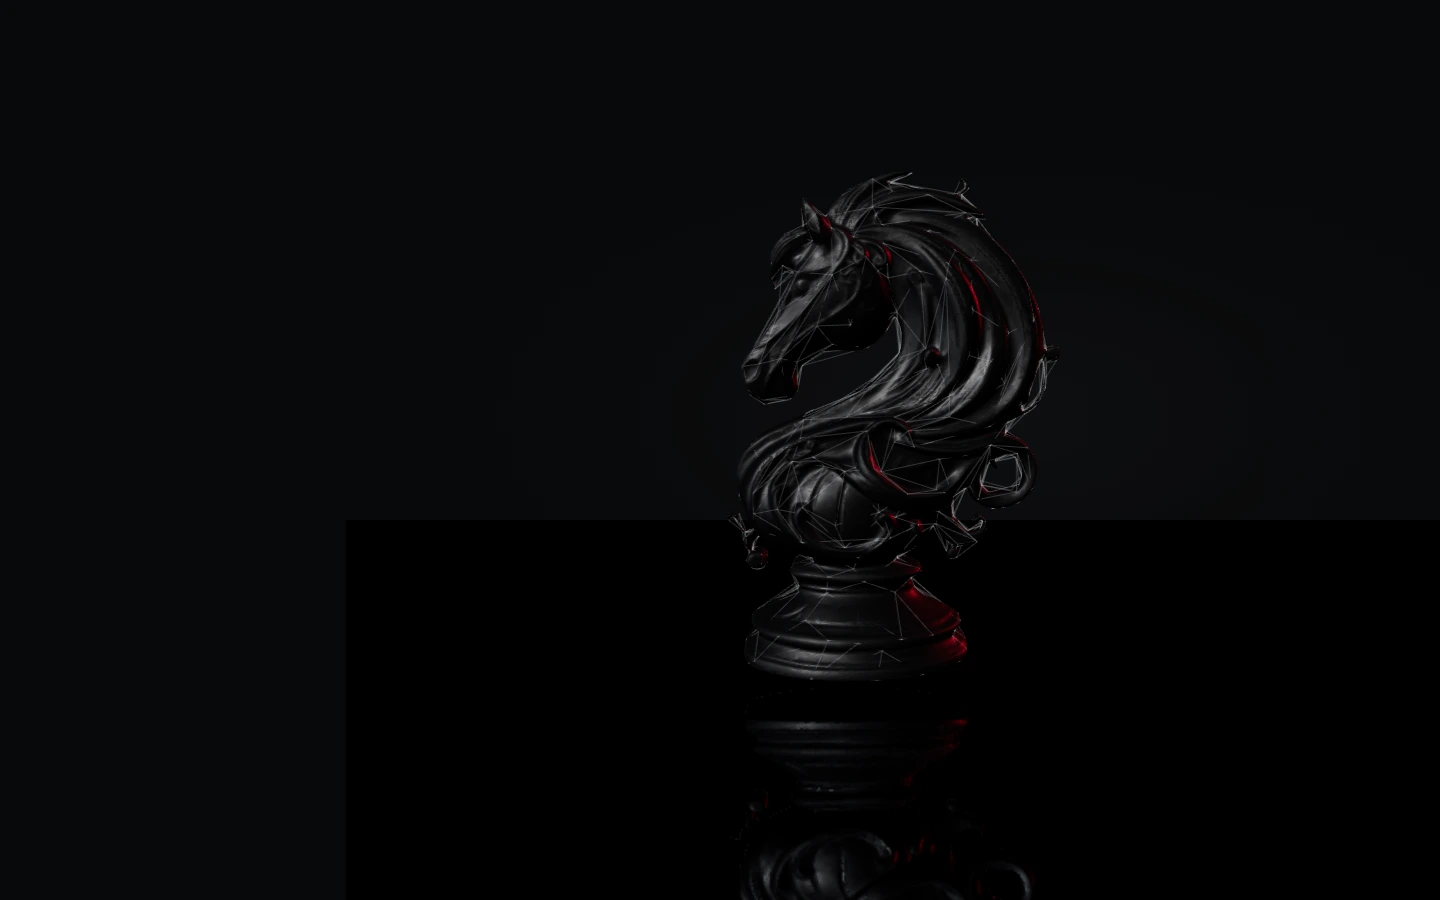
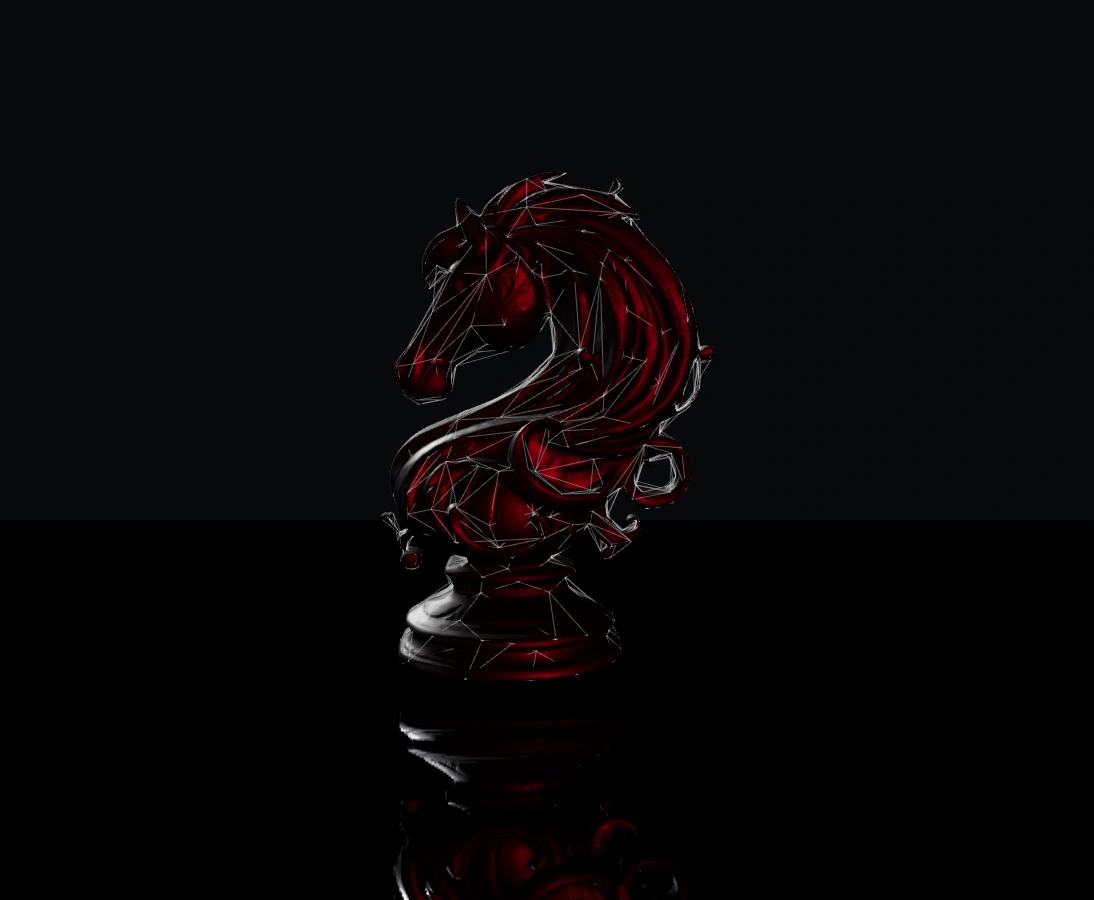
fix: clarify hero knight tracking and lighting

diff --git a/assets/home-hero-scene.js b/assets/home-hero-scene.js
@@ -51,10 +51,10 @@ let progress = 0;
 let lastFrameAt = 0;
 
 const REST_YAW = 0;
-// The model faces the camera at 90 degrees; the offset range keeps both tracked poses forward-facing.
+// Pointer tracking centers on the frontal pose and stays within the forward-facing arc.
 const TRACKING_CENTER_YAW = THREE.MathUtils.degToRad(90);
-const TRACKING_YAW_RANGE = THREE.MathUtils.degToRad(18);
-const TRACKING_PITCH_LIMIT = THREE.MathUtils.degToRad(7);
+const TRACKING_YAW_RANGE = THREE.MathUtils.degToRad(35);
+const TRACKING_PITCH_LIMIT = THREE.MathUtils.degToRad(12);
 const TRACKING_FULL_TILT_AT = 0.75;
 const TRACKING_HEAD_BAND = [0.58, 0.88];
 const LOW_POLY_WIRE_VERTEX_BUDGET = 1100;
@@ -100,7 +100,7 @@ function createRevealMaterial() {
     uniforms: {
       uPointer: { value: new THREE.Vector3() },
       uReveal: { value: 0 },
-      uBaseOpacity: { value: 0.22 },
+      uBaseOpacity: { value: 0.38 },
     },
     vertexShader: `
       varying vec3 vWorldPosition;
@@ -123,7 +123,7 @@ function createRevealMaterial() {
         float localizedReveal = falloff * uReveal;
         float alpha = uBaseOpacity + localizedReveal * (0.88 - uBaseOpacity);
         if (alpha < 0.025) discard;
-        vec3 color = mix(vec3(0.52, 0.55, 0.60), vec3(0.9, 0.18, 0.25), localizedReveal);
+        vec3 color = mix(vec3(0.70, 0.73, 0.78), vec3(0.95, 0.12, 0.20), localizedReveal);
         gl_FragColor = vec4(color, alpha);
         #include <tonemapping_fragment>
         #include <colorspace_fragment>
@@ -380,14 +380,15 @@ async function startScene() {
     // The studio rig stays in scene space; pointer input rotates only modelPivot.
     addStudioLight(new THREE.HemisphereLight(0xe7e8eb, 0x101114, 0.86));
     const key = new THREE.DirectionalLight(0xffffff, 2.7);
+    // Fixed behind-left; light travels across the knight toward the right/front.
     key.position.set(-2.8, 3.4, -3.8);
     addStudioLight(key);
     const fill = new THREE.DirectionalLight(0xbec2cd, 0.46);
     fill.position.set(-3.8, 0.7, 1.5);
     addStudioLight(fill);
-    const rim = new THREE.DirectionalLight(0xe02c3b, 3.1);
-    // Fixed on the scene's right/back side; never parent this light to the model.
-    rim.position.set(3.8, 1.5, -2.4);
+    const rim = new THREE.DirectionalLight(0xf02a3a, 3.1);
+    // Fixed on the reader's right/front; light travels toward the left/back, never with the model.
+    rim.position.set(6.2, 1.7, 3.2);
     addStudioLight(rim);
     scene.add(modelPivot);
 

diff --git a/en/index.html b/en/index.html
@@ -47,12 +47,12 @@
     <main id="main-content" tabindex="-1">
       <section class="hero-track" id="hero-track" aria-labelledby="hero-title" data-stage="0">
         <div class="hero-screen">
-          <picture class="hero-poster" id="hero-poster" aria-hidden="true">
-            <source type="image/webp" media="(max-width: 640px)" srcset="/assets/models/chess-knight-006-poster-mobile.webp" />
-            <source type="image/webp" srcset="/assets/models/chess-knight-006-poster-desktop.webp" />
-            <img id="hero-poster-image" src="/assets/models/chess-knight-006-preview.png" alt="" fetchpriority="high" decoding="async" width="1440" height="900" />
-          </picture>
           <div class="hero-art" id="scene-frame" data-scene-state="poster" data-model-ready="false" role="img" aria-label="Chess Knight 006 by Vijay Saini with white and red lighting and a reflection; decorative scene.">
+            <picture class="hero-poster" id="hero-poster" aria-hidden="true">
+              <source type="image/webp" media="(max-width: 640px)" srcset="/assets/models/chess-knight-006-poster-mobile.webp" />
+              <source type="image/webp" srcset="/assets/models/chess-knight-006-poster-desktop.webp" />
+              <img id="hero-poster-image" src="/assets/models/chess-knight-006-preview.png" alt="" fetchpriority="high" decoding="async" width="1094" height="900" />
+            </picture>
             <img class="scene-fallback" id="scene-fallback" alt="" hidden />
             <canvas id="scene-canvas" hidden aria-hidden="true"></canvas>
             <div class="scene-grid" aria-hidden="true"></div>

diff --git a/pt-br/index.html b/pt-br/index.html
@@ -47,12 +47,12 @@
     <main id="main-content" tabindex="-1">
       <section class="hero-track" id="hero-track" aria-labelledby="hero-title" data-stage="0">
         <div class="hero-screen">
-          <picture class="hero-poster" id="hero-poster" aria-hidden="true">
-            <source type="image/webp" media="(max-width: 640px)" srcset="/assets/models/chess-knight-006-poster-mobile.webp" />
-            <source type="image/webp" srcset="/assets/models/chess-knight-006-poster-desktop.webp" />
-            <img id="hero-poster-image" src="/assets/models/chess-knight-006-preview.png" alt="" fetchpriority="high" decoding="async" width="1440" height="900" />
-          </picture>
           <div class="hero-art" id="scene-frame" data-scene-state="poster" data-model-ready="false" role="img" aria-label="Chess Knight 006, por Vijay Saini, com luzes brancas e vermelhas e reflexo; cena decorativa.">
+            <picture class="hero-poster" id="hero-poster" aria-hidden="true">
+              <source type="image/webp" media="(max-width: 640px)" srcset="/assets/models/chess-knight-006-poster-mobile.webp" />
+              <source type="image/webp" srcset="/assets/models/chess-knight-006-poster-desktop.webp" />
+              <img id="hero-poster-image" src="/assets/models/chess-knight-006-preview.png" alt="" fetchpriority="high" decoding="async" width="1094" height="900" />
+            </picture>
             <img class="scene-fallback" id="scene-fallback" alt="" hidden />
             <canvas id="scene-canvas" hidden aria-hidden="true"></canvas>
             <div class="scene-grid" aria-hidden="true"></div>

diff --git a/assets/home.css b/assets/home.css
@@ -43,7 +43,7 @@
   left: 27%;
   height: 14%;
   content: "";
-  background: radial-gradient(ellipse at center, rgba(181, 183, 188, .16), rgba(162, 27, 41, .1) 30%, transparent 69%);
+  background: radial-gradient(ellipse at center, rgba(181, 183, 188, .16), rgba(162, 27, 41, .035) 30%, transparent 69%);
   filter: blur(16px);
   pointer-events: none;
 }
@@ -62,7 +62,7 @@
   display: block;
   width: 100%;
   height: 100%;
-  object-fit: cover;
+  object-fit: contain;
   object-position: center;
 }
 
